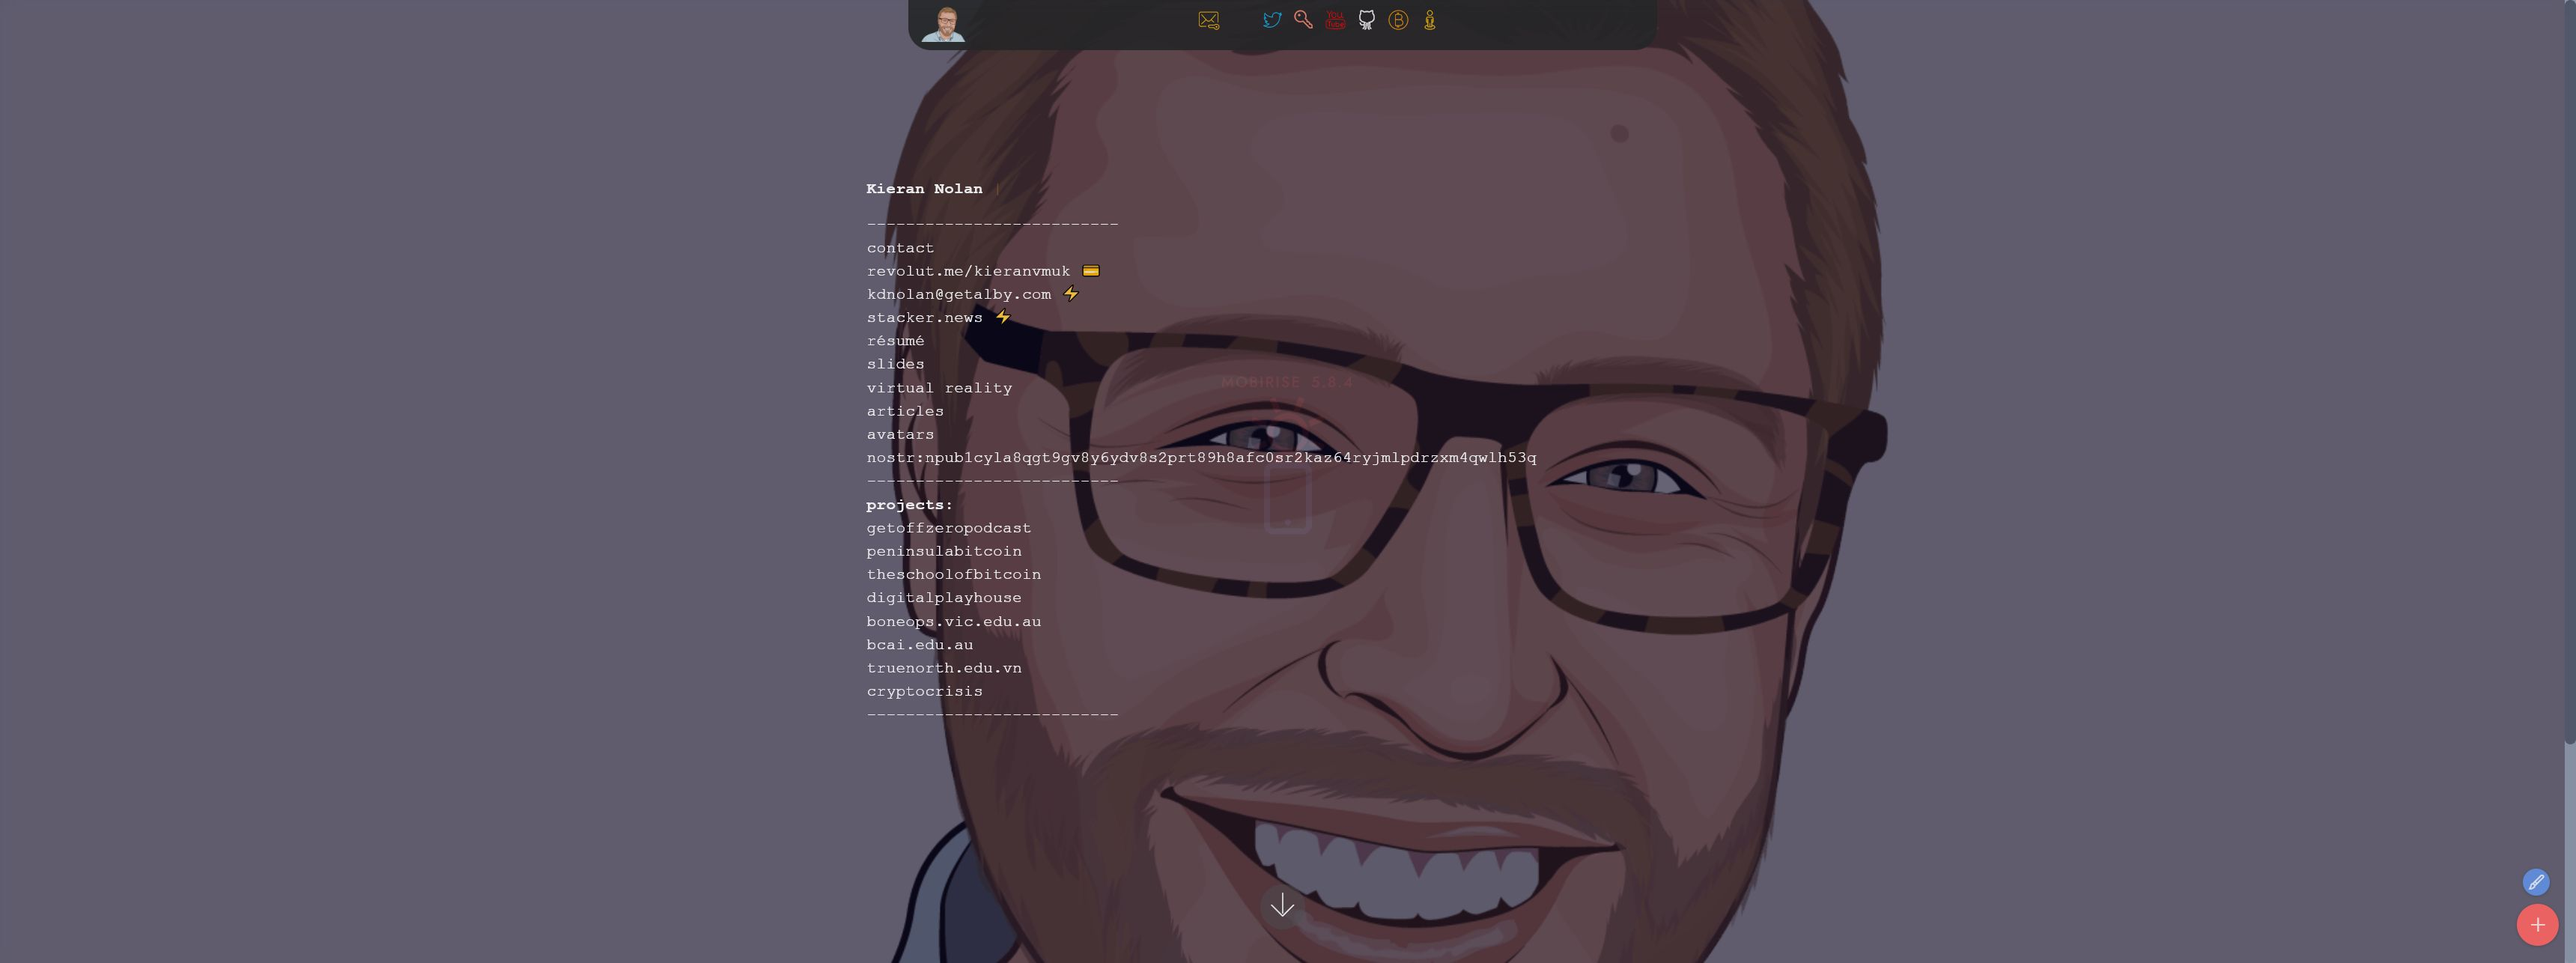
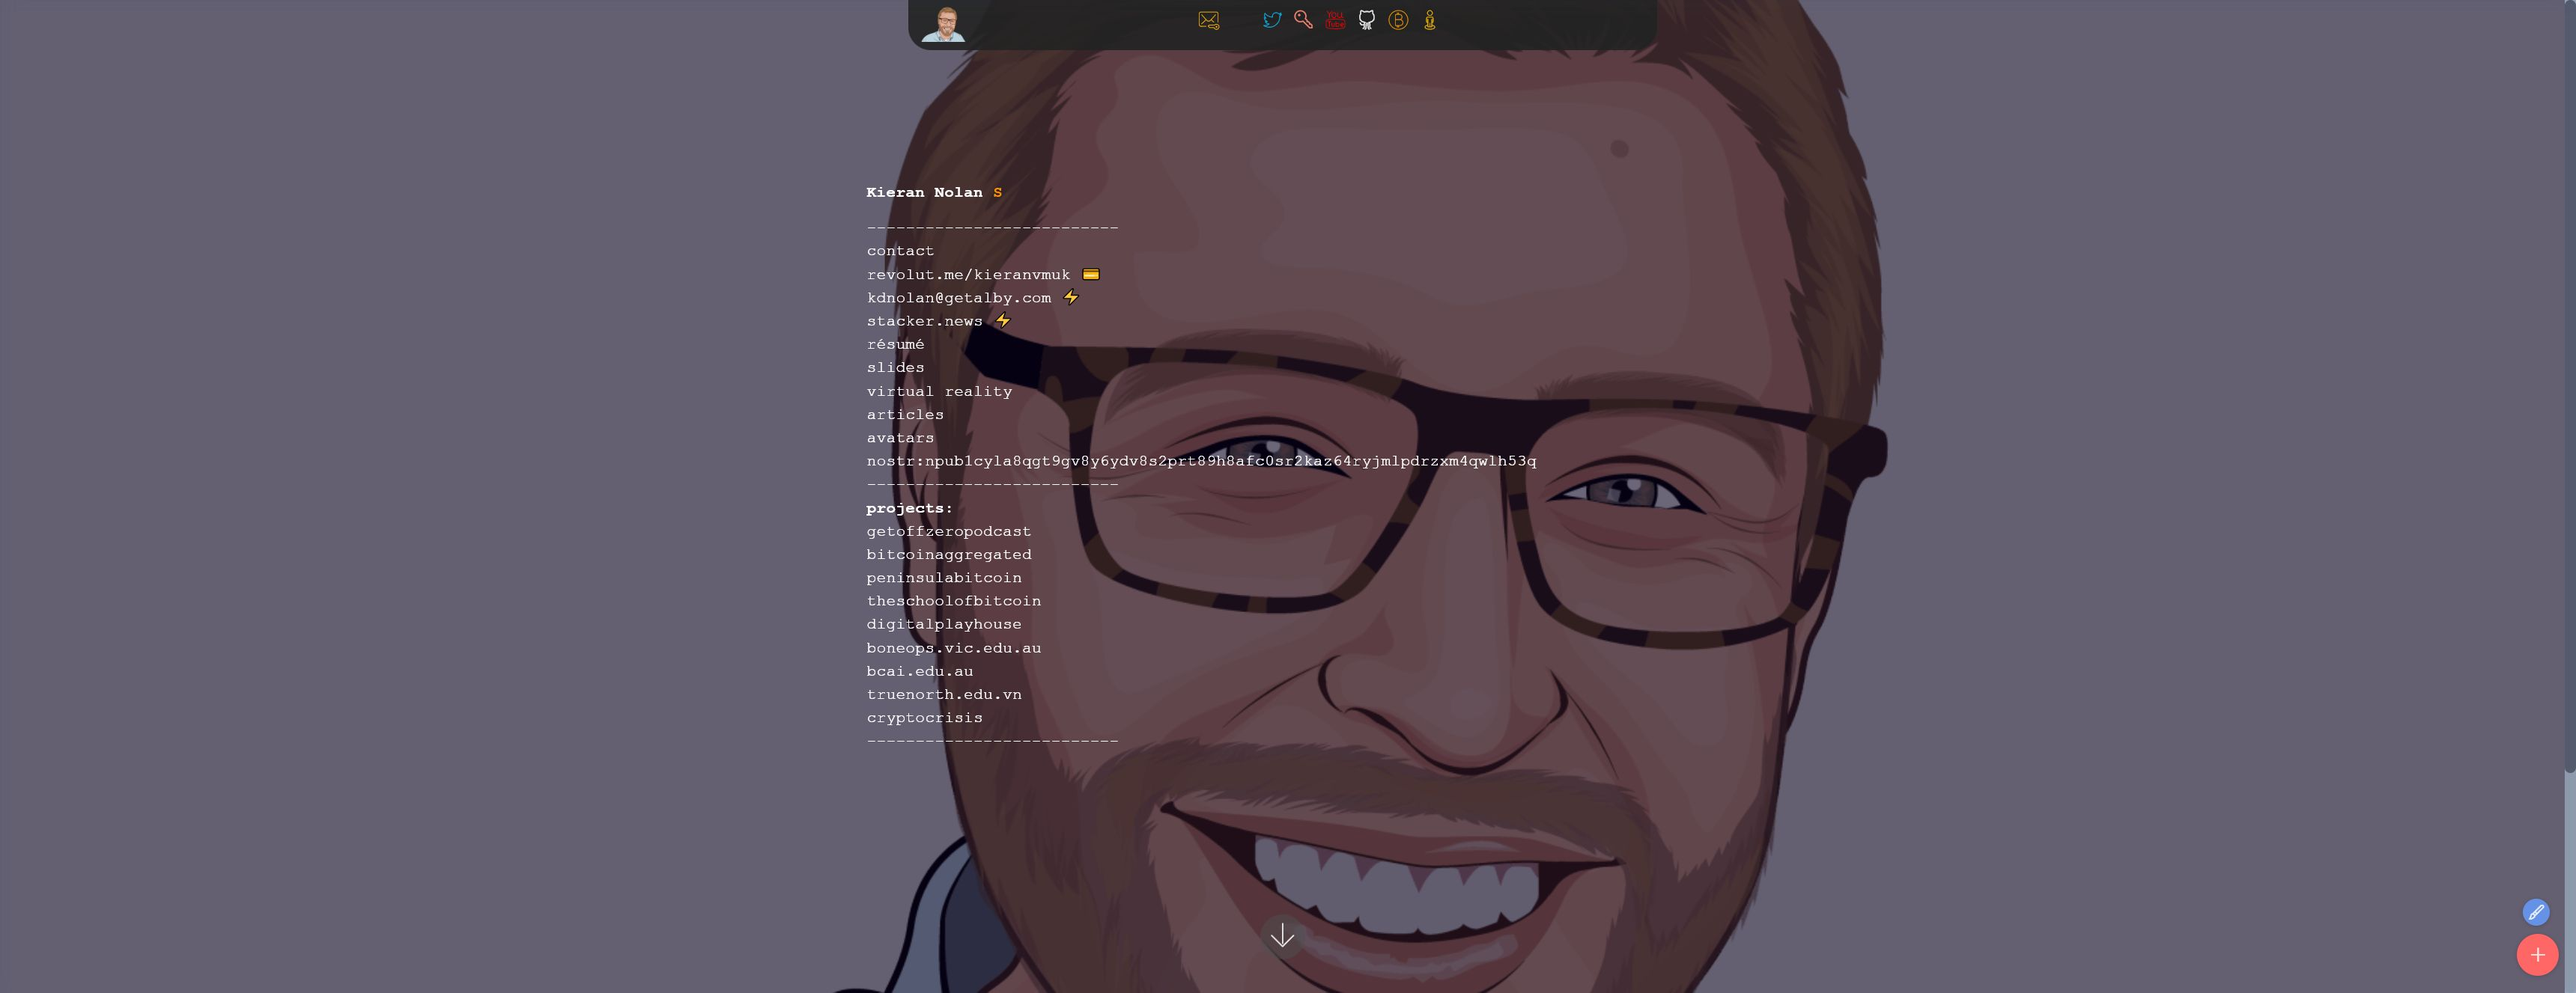
nostr
nostr

diff --git a/index.html b/index.html
@@ -108,7 +108,7 @@
                     </span>
                 </div>
                 <p class="mbr-section-text mbr-fonts-style display-5">--------------------------
-<br><a href="mailto:15s59m84y@mozmail.com" class="text-primary">contact&nbsp;</a><br><a href="https://revolut.me/kieranvmuk" class="text-primary" target="_blank">revolut.me/kieranvmuk</a>&nbsp;💳<br><a href="https://getalby.com/p/kdnolan" class="text-primary" target="_blank">kdnolan@getalby.com&nbsp;⚡<br></a><a href="https://stacker.news/KieranDNolan/posts" class="text-primary" target="_blank">stacker.news ⚡<br></a><a href="https://docs.google.com/document/d/e/2PACX-1vSJ3lUSlqyzEbDo2WYMuaCoPWlIEa_Dltg2NgMmwRnxJEwSH9Kfty-wHGQbAZDOrDtfyUymXv8UziGx/pub" class="text-primary" target="_blank">résumé</a><br><a href="https://docs.google.com/presentation/d/17VgbEdmkydBphCaPF-fNZWcem_wUsqc7-zxOej7hY0I/edit?usp=sharing" class="text-primary" target="_blank">slides</a><br><strong><a href="VR.html" class="text-primary">virtual reality</a></strong><br><strong><a href="https://github.com/kdnolan/kdnolan.github.io/tree/master/articles" class="text-primary" target="_blank">articles</a></strong><br><a href="https://github.com/kdnolan/kdnolan.github.io/tree/master/avatars" class="text-primary" target="_blank">avatars</a><br><a href="https://astral.ninja/npub1cyla8qgt9gv8y6ydv8s2prt89h8afc0sr2kaz64ryjmlpdrzxm4qwlh53q" class="text-primary" target="_blank">nostr:npub1cyla8qgt9gv8y6ydv8s2prt89h8afc0sr2kaz64ryjmlpdrzxm4qwlh53q</a><br>--------------------------<br><strong>projects:<br></strong><a href="https://getoffzeropod.com/" class="text-primary" target="_blank">getoffzeropodcast</a><br><a href="https://bitcoinaggregated.com/" class="text-primary" target="_blank">bitcoinaggregated.com</a><br><a href="http://peninsulabitcoin.com" class="text-primary" target="_blank">peninsulabitcoin</a><a href="https://getoffzeropod.com/" class="text-primary" target="_blank"><br></a><a href="https://theschoolofbitcoin.com/" class="text-primary" target="_blank">theschoolofbitcoin</a><br><a href="https://www.digitalplayhouse.com.au/digital-playhouse-foundation" class="text-primary" target="_blank">digitalplayhouse</a>&nbsp;<br><a href="https://boneops.vic.edu.au/" class="text-primary" target="_blank">boneops.vic.edu.au</a><br><a href="https://www.bcai.edu.au/" class="text-primary" target="_blank">bcai.edu.au</a><br><a href="http://truenorth.edu.vn/our-school" class="text-primary" target="_blank">truenorth.edu.vn<br></a><a href="https://store.steampowered.com/app/1022320/Crypto_Crisis_Education_Edition/" class="text-primary" target="_blank">cryptocrisis</a><br>--------------------------
+<br><a href="mailto:15s59m84y@mozmail.com" class="text-primary">contact&nbsp;</a><br><a href="https://revolut.me/kieranvmuk" class="text-primary" target="_blank">revolut.me/kieranvmuk</a>&nbsp;💳<br><a href="https://getalby.com/p/kdnolan" class="text-primary" target="_blank">kdnolan@getalby.com&nbsp;⚡<br></a><a href="https://stacker.news/KieranDNolan/posts" class="text-primary" target="_blank">stacker.news ⚡<br></a><a href="https://docs.google.com/document/d/e/2PACX-1vSJ3lUSlqyzEbDo2WYMuaCoPWlIEa_Dltg2NgMmwRnxJEwSH9Kfty-wHGQbAZDOrDtfyUymXv8UziGx/pub" class="text-primary" target="_blank">résumé</a><br><a href="https://docs.google.com/presentation/d/17VgbEdmkydBphCaPF-fNZWcem_wUsqc7-zxOej7hY0I/edit?usp=sharing" class="text-primary" target="_blank">slides</a><br><strong><a href="VR.html" class="text-primary">virtual reality</a></strong><br><strong><a href="https://github.com/kdnolan/kdnolan.github.io/tree/master/articles" class="text-primary" target="_blank">articles</a></strong><br><a href="https://github.com/kdnolan/kdnolan.github.io/tree/master/avatars" class="text-primary" target="_blank">avatars</a><br><a href="https://astral.ninja/npub1cyla8qgt9gv8y6ydv8s2prt89h8afc0sr2kaz64ryjmlpdrzxm4qwlh53q" class="text-primary" target="_blank">nostr:kdnolan@nostriches.net</a><br>--------------------------<br><strong>projects:<br></strong><a href="https://getoffzeropod.com/" class="text-primary" target="_blank">getoffzeropodcast</a><br><a href="https://bitcoinaggregated.com/" class="text-primary" target="_blank">bitcoinaggregated</a><br><a href="http://peninsulabitcoin.com" class="text-primary" target="_blank">peninsulabitcoin</a><a href="https://getoffzeropod.com/" class="text-primary" target="_blank"><br></a><a href="https://theschoolofbitcoin.com/" class="text-primary" target="_blank">theschoolofbitcoin</a><br><a href="https://www.digitalplayhouse.com.au/digital-playhouse-foundation" class="text-primary" target="_blank">digitalplayhouse</a>&nbsp;<br><a href="https://boneops.vic.edu.au/" class="text-primary" target="_blank">boneops.vic.edu.au</a><br><a href="https://www.bcai.edu.au/" class="text-primary" target="_blank">bcai.edu.au</a><br><a href="http://truenorth.edu.vn/our-school" class="text-primary" target="_blank">truenorth.edu.vn<br></a><a href="https://store.steampowered.com/app/1022320/Crypto_Crisis_Education_Edition/" class="text-primary" target="_blank">cryptocrisis</a><br>--------------------------
 <br><br><br><strong><a href="http://rocketshoes.io" class="text-primary" target="_blank"><br></a></strong><br><strong><a href="http://rocketshoes.io" class="text-primary" target="_blank"><br></a></strong><a href="http://kdnolan.hns.to" class="text-primary" target="_blank" style=""><br></a><br></p>
                 
             </div>

diff --git a/webdev.html b/webdev.html
@@ -88,9 +88,9 @@
 
 <section class="slider1 cid-tveSm9BzEp mbr-fullscreen" id="slider1-1r">
     
-    <div class="carousel slide carousel-fade" id="tFb8iY61vN" data-ride="carousel" data-interval="5000">
+    <div class="carousel slide carousel-fade" id="tJigDk72MJ" data-ride="carousel" data-interval="5000">
        <ol class="carousel-indicators">
-            <li data-slide-to="0" class="active" data-target="#tFb8iY61vN"></li><li data-slide-to="1" class="" data-target="#tFb8iY61vN"></li><li data-slide-to="2" class="" data-target="#tFb8iY61vN"></li><li data-slide-to="3" class="" data-target="#tFb8iY61vN"></li><li data-slide-to="4" class="" data-target="#tFb8iY61vN"></li>
+            <li data-slide-to="0" class="active" data-target="#tJigDk72MJ"></li><li data-slide-to="1" class="" data-target="#tJigDk72MJ"></li><li data-slide-to="2" class="" data-target="#tJigDk72MJ"></li><li data-slide-to="3" class="" data-target="#tJigDk72MJ"></li><li data-slide-to="4" class="" data-target="#tJigDk72MJ"></li>
             
             
         </ol>
@@ -168,11 +168,11 @@
             
             
         </div>
- <a class="carousel-control carousel-control-prev" role="button" data-slide="prev" href="#tFb8iY61vN">
+ <a class="carousel-control carousel-control-prev" role="button" data-slide="prev" href="#tJigDk72MJ">
             <span class="mobi-mbri mobi-mbri-left" aria-hidden="true"></span>
             <span class="sr-only">Previous</span>
         </a>
-        <a class="carousel-control carousel-control-next" role="button" data-slide="next" href="#tFb8iY61vN">
+        <a class="carousel-control carousel-control-next" role="button" data-slide="next" href="#tJigDk72MJ">
             <span class="mobi-mbri mobi-mbri-right" aria-hidden="true"></span>
             <span class="sr-only">Next</span>
         </a>
